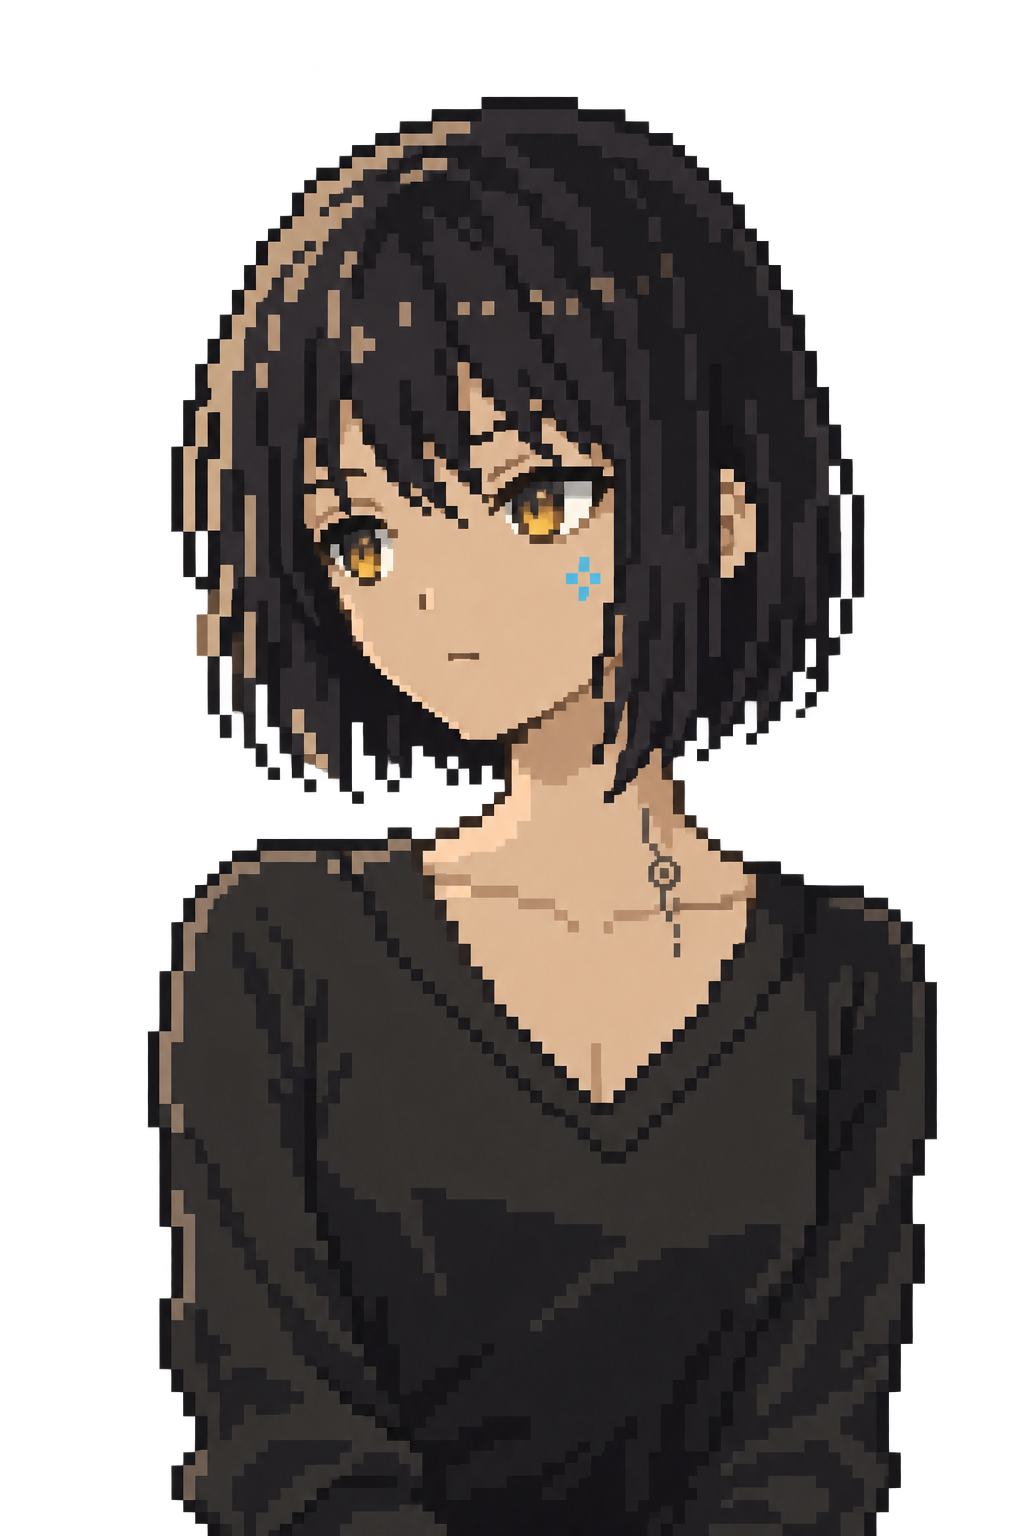
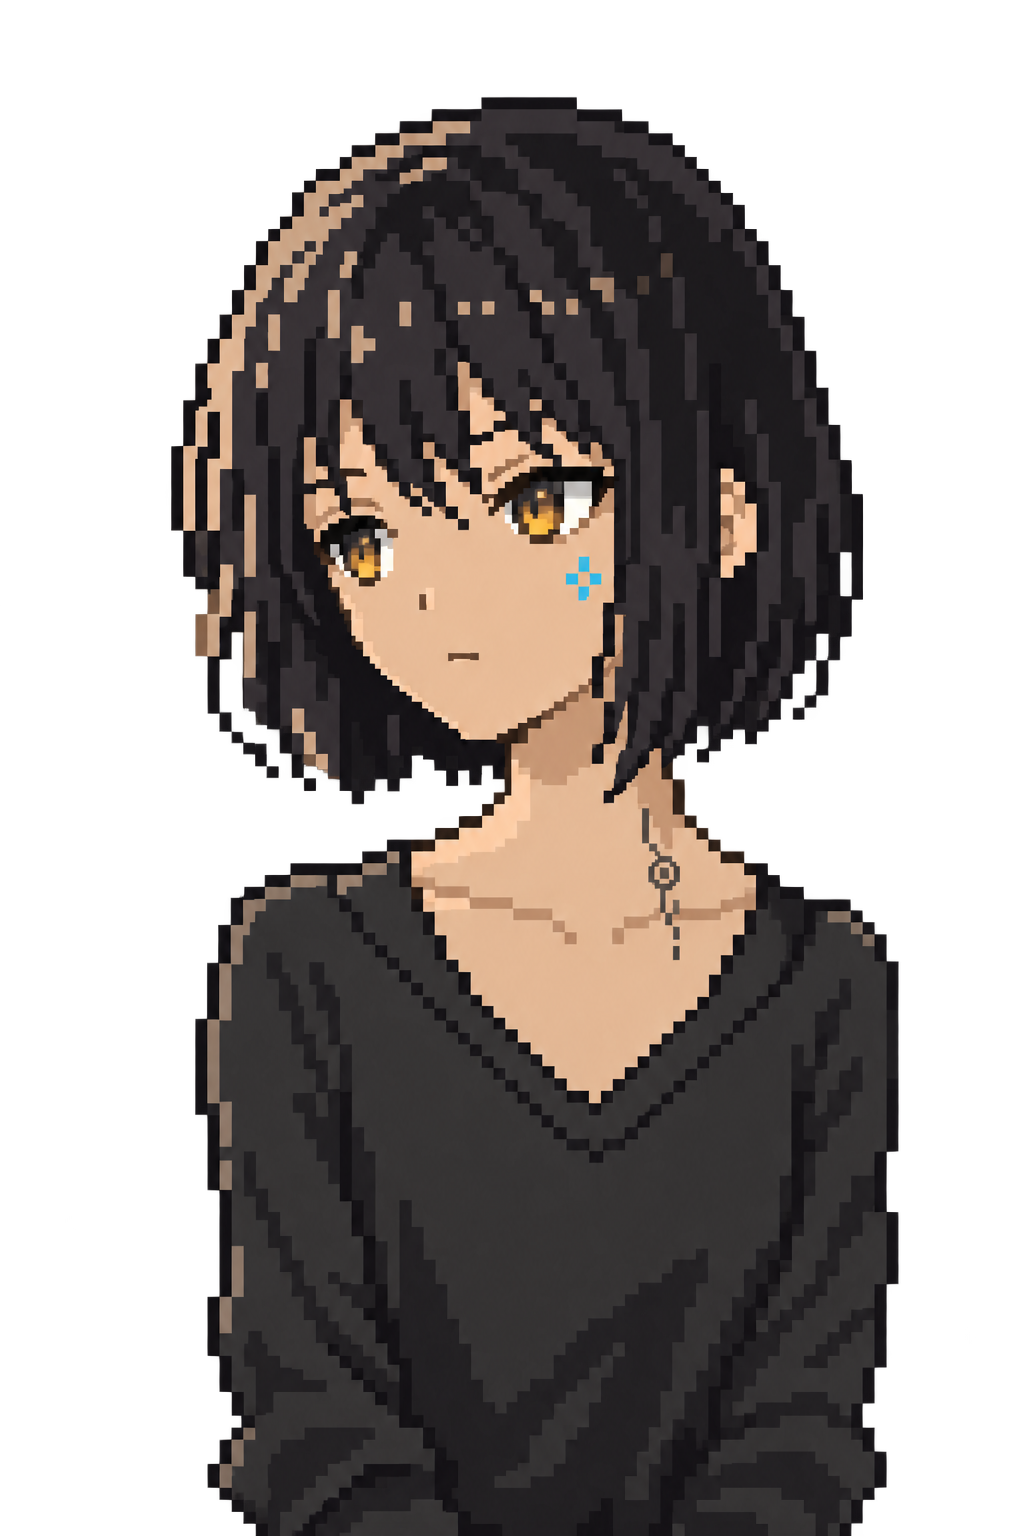
fix: restore gold status accents and slim pixel OC

diff --git a/crates/kanzei-app/ui/style.css b/crates/kanzei-app/ui/style.css
@@ -1,4 +1,4 @@
-/* kanzei — 暖炭灰、纸白与少量香槟金，搭配简洁的像素 OC。
+/* kanzei — 暖炭灰、纸白与清晰的琥珀金状态，搭配简洁的像素 OC。
    参考 Sand 的暖灰层级，背景去掉蓝调，强调色只承载重点。 */
 * { margin: 0; padding: 0; box-sizing: border-box; }
 /* R-189:默认主题 = 暗色。:root 保留 dark 语义 token,
@@ -7,16 +7,16 @@
   --bg: #181817; --panel: #21211f; --panel2: #2b2b28; --input: #282825;
   --border: #3d3c36; --border-soft: #30302b;
   --fg: #deded6; --fg-strong: #f1f0e9; --dim: #aaa99f;
-  --accent: #c6b08b; --accent-hover: #d5c3a3; --accent-soft: #302d26;
+  --accent: #dfb14f; --accent-hover: #edc678; --accent-soft: #342b1b;
   /* 填充与文字分别配色，保证亮色主题中的琥珀文字仍有足够对比。 */
-  --accent-text: #d2bc95;
-  --memory-flow: #bda985; --memory-flow-hot: #e0cfb0; --memory-flow-dim: #777266;
-  --ok: #a1b69b; --err: #d4968b; --warn: #c6b08b; --info: #a0bdb5;
+  --accent-text: #e4bb67;
+  --memory-flow: #caa24e; --memory-flow-hot: #edc678; --memory-flow-dim: #806d42;
+  --ok: #a1b69b; --err: #d4968b; --warn: #dfb14f; --info: #a0bdb5;
   --oc-circuit: #9bc9c4;
-  --alert: #c6b08b;
+  --alert: #dfb14f;
   --danger: var(--err); --muted: var(--dim);
-  --statusbar: #1b1b19; --statusbar-run: #302d26;
-  --statusbar-fg: #aaa99f; --statusbar-run-fg: #ded0b8;
+  --statusbar: #1b1b19; --statusbar-run: #30281b;
+  --statusbar-fg: #aaa99f; --statusbar-run-fg: #edc678;
   /* 工作区与主背景同色；输入区、侧栏和消息通过表面明度区分。 */
   --chat-bg: #181817;
   --user-bubble: #292925; --user-bubble-border: #3d3c36;
@@ -28,15 +28,14 @@
      逐个 input 去覆盖既漏且难维护(D-154)。 */
   color-scheme: dark;
   /* R-189:暗色专属徽章/状态胶囊底色(b 类字面量 token 化,亮色组成对给值)。 */
-  --badge-err: #362a28; --badge-warn: #302d26; --badge-info: #293330;
-  --badge-alert: #302d26; --badge-ok: #293127;
+  --badge-err: #362a28; --badge-warn: #342b1b; --badge-info: #293330;
+  --badge-alert: #342b1b; --badge-ok: #293127;
   --badge-err-soft: #2a8a4233; --badge-warn-soft: #b34a4a33; --badge-soft: #8883;
-  /* 被 .workspace-status.running 引用却从未定义:唯一需要一眼看见的「运行中」
-     反倒是四个状态胶囊里唯一没底色的那个。与 --ok 同色系,alpha 与同组一致。 */
+  /* 成功状态的浅底色；运行状态统一使用金色的 accent token。 */
   --badge-ok-soft: #8fb87a33;
   /* R-189:框架面未 token 化的字面量提升(b 类)——活动栏/滚动条/代码块等。 */
   --activitybar: #181817; --sidebar-bg: #1d1d1b; --scrollbar: #414039; --scrollbar-hover: #5b594f;
-  --activity-fg: #96968a; --activity-active: #d2bc95;
+  --activity-fg: #96968a; --activity-active: #e4bb67;
 
   --code-bg: #151513; --code-output-bg: #1b1b18; --danger-btn: #50332f;
   --code-inline: #30302b;
@@ -48,7 +47,7 @@
   /* R-189:语法着色/线路主题色/状态点色/杂项(d 类字面量 token 化)。 */
   --syntax-comment: #6a9955; --syntax-string: #ce9178; --syntax-number: #b5cea8; --syntax-keyword: #569cd6;
   --line-1: #7ba7c4; --line-2: #d3a14a; --line-3: #8fb87a; --line-4: #aa83bd;
-  --dot-idle: #a1b69b; --dot-run: #c6b08b;
+  --dot-idle: #a1b69b; --dot-run: #dfb14f;
   --diff-line-number: #666; --arch-unindexed: #b45309; --log-gold: #e8b04b;
   /* D-380:主题块之外**不允许**出现字面量颜色。以下是原先逃逸在交互态里的那批
      ——它们最难被静态发现,也最容易在亮色下出错(拒绝键 hover 变深灰块、线路条
@@ -79,26 +78,26 @@
   --bg: #f6f5f1; --panel: #fcfbf8; --panel2: #eeede7; --input: #f2f1ec;
   --border: #d5d2c7; --border-soft: #e4e1d9;
   --fg: #393831; --fg-strong: #25241f; --dim: #66645b;
-  --accent: #c1aa83; --accent-hover: #ceb994; --accent-soft: #eee6d8;
+  --accent: #d9aa4e; --accent-hover: #e4bc70; --accent-soft: #f1e5c9;
   /* 文字琥珀比按钮填充更深。 */
-  --accent-text: #705c3a;
-  --memory-flow: #8e7956; --memory-flow-hot: #715b35; --memory-flow-dim: #b7ab94;
-  --ok: #4e6d43; --err: #a84036; --warn: #80602d; --info: #426d64;
+  --accent-text: #815d16;
+  --memory-flow: #a17a28; --memory-flow-hot: #815d16; --memory-flow-dim: #bfac80;
+  --ok: #4e6d43; --err: #a84036; --warn: #855c10; --info: #426d64;
   --oc-circuit: #659f9b;
   --alert: #c2410c;
   --danger: var(--err); --muted: var(--dim);
-  --statusbar: #f0efe9; --statusbar-run: #eee6d8;
-  --statusbar-fg: #66645b; --statusbar-run-fg: #57472c;
+  --statusbar: #f0efe9; --statusbar-run: #f1e5c9;
+  --statusbar-fg: #66645b; --statusbar-run-fg: #765010;
   color-scheme: light;
   --chat-bg: #f6f5f1;
   --user-bubble: #eeede7; --user-bubble-border: #d5d2c7;
   --on-danger: #8c1d18;
-  --badge-err: #f4e6e0; --badge-warn: #f0e8d8; --badge-info: #e5ece6;
-  --badge-alert: #f0e8d8; --badge-ok: #e8ecdf;
+  --badge-err: #f4e6e0; --badge-warn: #f1e5c9; --badge-info: #e5ece6;
+  --badge-alert: #f1e5c9; --badge-ok: #e8ecdf;
   --badge-err-soft: #b3261e26; --badge-warn-soft: #9a670026; --badge-soft: #8888881f;
   --badge-ok-soft: #2f7d3226;
   --activitybar: #eeede7; --sidebar-bg: #f0efe9; --scrollbar: #cfccc1; --scrollbar-hover: #afab9e;
-  --activity-fg: #777468; --activity-active: #705c3a;
+  --activity-fg: #777468; --activity-active: #815d16;
 
   --code-bg: #eeede6; --code-output-bg: #e8e6dd; --danger-btn: #f0dcd4;
   --code-inline: #e7e5dc;
@@ -107,7 +106,7 @@
   --on-accent: #242018;
   --syntax-comment: #6a737d; --syntax-string: #032f62; --syntax-number: #005cc5; --syntax-keyword: #d73a49;
   --line-1: #1f6b96; --line-2: #9a6700; --line-3: #1a7f37; --line-4: #8250df;
-  --dot-idle: #4e6d43; --dot-run: #80602d;
+  --dot-idle: #4e6d43; --dot-run: #855c10;
   --diff-line-number: #8b949e; --arch-unindexed: #9a6700; --log-gold: #953800;
   /* 亮色的阴影不能照抄 53% 纯黑:同样的值在浅底上是一块脏印子。 */
   --shadow: #0000001f; --shadow-strong: #00000029;
@@ -263,7 +262,7 @@ body {
   border-left: 2px solid transparent;
 }
 .project-item:hover { background: var(--panel2); }
-.project-item.active { background: var(--panel2); border-left-color: var(--accent); }
+.project-item.active { background: var(--accent-soft); border-left-color: var(--accent); }
 .project-item:focus-visible { outline: 2px solid var(--accent); outline-offset: -2px; }
 .project-item .name { font-weight: 500; color: var(--fg-strong); white-space: nowrap; overflow: hidden; text-overflow: ellipsis; min-width: 0; flex: 1; }
 .project-item .path { display: none; }
@@ -426,7 +425,7 @@ button.mini { padding: 2px 10px; font-size: var(--fs-11-5); }
 .workspace-card:focus-visible { outline: 2px solid var(--accent); outline-offset: 2px; }
 .workspace-card-head { display: flex; justify-content: space-between; gap: 12px; align-items: center; }
 .workspace-status { padding: 2px 7px; border-radius: 10px; font-size: var(--fs-11); }
-.workspace-status.running { color: var(--ok); background: var(--badge-ok-soft); }
+.workspace-status.running { color: var(--accent-text); background: var(--accent-soft); }
 .workspace-status.failed { color: var(--danger); background: var(--badge-warn-soft); }
 .workspace-status.idle { color: var(--muted); background: var(--badge-soft); }
 .workspace-path, .workspace-summary, .workspace-activity, .workspace-meta { margin-top: 6px; font-size: var(--fs-12); overflow: hidden; text-overflow: ellipsis; white-space: nowrap; }
@@ -1331,7 +1330,7 @@ button.bg-section-toggle:focus-visible { outline: 2px solid var(--accent); outli
 .parallel-line:hover .parallel-line-close, .parallel-line-close:focus-visible { opacity: 1; }
 .parallel-task-row { width: 100%; display: flex; flex-direction: column; align-items: flex-start; gap: 5px; padding: 10px 40px 10px 10px; border: 1px solid transparent; border-radius: 7px; background: transparent; color: var(--fg); text-align: left; cursor: pointer; font: inherit; }
 .parallel-task-row:hover { background: var(--panel2); }
-.parallel-task-row.active { border-color: var(--border); background: var(--panel2); }
+.parallel-task-row.active { border-color: color-mix(in srgb, var(--accent) 60%, var(--border)); background: var(--accent-soft); }
 .parallel-task-row.running { border-left: 2px solid var(--ok); }
 .parallel-task-row.auto-pending { border-left: 2px solid var(--warn); }
 .parallel-task-head { overflow: hidden; text-overflow: ellipsis; white-space: nowrap; max-width: 100%; font-size: var(--fs-12); font-weight: 500; }
@@ -1620,7 +1619,7 @@ button.mini { font-size: var(--fs-11); padding: 2px 8px; }
   color: var(--dim); border: 1px solid var(--border); border-radius: 10px;
   padding: 0 6px; font-size: var(--fs-10); white-space: nowrap;
 }
-.work-unit-badge.active, .work-unit-badge.verifying { color: var(--accent); border-color: var(--accent); }
+.work-unit-badge.active, .work-unit-badge.verifying { color: var(--accent-text); border-color: var(--accent); }
 .work-unit-badge.blocked { color: var(--alert); border-color: var(--alert); }
 .work-unit-list { display: grid; gap: 6px; margin: 6px 0; }
 .work-unit-card {
@@ -2423,12 +2422,12 @@ button.mini { font-size: var(--fs-11); padding: 2px 8px; }
 .research-filter-row { display: grid; grid-template-columns: repeat(4, minmax(0, 1fr)); gap: 5px; }
 .research-filter-meta { display: flex; justify-content: space-between; gap: 8px; color: var(--muted); font-size: var(--fs-10-5); }
 .research-card-backrefs { margin: 4px 0 7px; color: var(--muted); font-size: var(--fs-11); }
-.research-badge.evidence-depth { color: var(--accent); border-color: color-mix(in srgb, var(--accent) 45%, var(--border)); }
+.research-badge.evidence-depth { color: var(--accent-text); border-color: color-mix(in srgb, var(--accent) 45%, var(--border)); }
 .research-topic-group { display: flex; flex-direction: column; gap: 8px; }
 .research-topic-title { margin: 0; color: var(--fg-strong); font-size: var(--fs-13); font-weight: 600; }
 
 .research-tab { background: transparent; color: var(--dim); border: 1px solid transparent; border-radius: var(--radius); padding: 4px 12px; cursor: pointer; font: inherit; }
-.research-tab.active { background: var(--panel2); color: var(--fg-strong); border-color: var(--border-soft); }
+.research-tab.active { background: var(--accent-soft); color: var(--accent-text); border-color: var(--accent); }
 .research-tab em { font-style: normal; color: var(--muted); }
 .research-cards { flex: 1; overflow-y: auto; padding: 12px; display: flex; flex-direction: column; gap: 10px; }
 .research-card { border: 1px solid var(--border-soft); border-radius: var(--radius); background: var(--panel); padding: 10px 12px; }
@@ -2521,8 +2520,8 @@ button.mini { font-size: var(--fs-11); padding: 2px 8px; }
 /* 开发 / 研究空间：导航、内容与任务控制分别组织。 */
 .workspace-switcher { display: flex; gap: 4px; padding: 14px 14px 6px; flex-shrink: 0; }
 .workspace-switcher button { flex: 1; border: 0; border-radius: 7px; background: transparent; color: var(--muted); padding: 8px 12px; font: inherit; font-size: var(--fs-12); cursor: pointer; transition: background .15s, color .15s; }
-.workspace-switcher button.active { color: var(--fg-strong); background: var(--panel2); }
-.workspace-switcher button:hover { background: var(--hover-wash); color: var(--fg-strong); }
+.workspace-switcher button.active { color: var(--accent-text); background: var(--accent-soft); }
+.workspace-switcher button:not(.active):hover { background: var(--hover-wash); color: var(--fg-strong); }
 .rail-section-separator, .rail-global-separator { width: 24px; min-height: 1px; background: var(--border-soft); margin: 8px 0; }
 .rail-global-separator { margin-top: auto; }
 .research-navigation { padding: 4px 12px 12px; border-bottom: 1px solid var(--border-soft); }

diff --git a/crates/kanzei-app/ui/assets/oc-pixel-v3.prompt.md b/crates/kanzei-app/ui/assets/oc-pixel-v3.prompt.md
@@ -12,3 +12,14 @@ Identity essentials: young adult female character, short straight black bob with
 Style is CRITICAL: traditional low-resolution pixel art built on a 64-by-96 logical pixel grid, enlarged exactly 16x to a 1024-by-1536 transparent PNG. Large crisp square pixels, hard edges, flat color clusters, at most 12-16 colors, 3 shades per material. No antialiasing, no painterly gradients, no photographic shading, no thin smooth lines, no detailed hair strands. Adult proportions with a slightly simplified face, not baby chibi. The final character should still look clear and charming at 96 pixels tall. Use a small silhouette occupying about 46 of the 64 logical pixels in width, leaving clear transparent margins.
 Palette: warm near-black charcoal #171716, stone-gray fabric #35342f, warm ivory skin #d5bda5, restrained amber eyes #c7ae83, ONLY 2-3 small muted cyan pixels at the cheek. A few soft champagne highlights #d0bea0. Sophisticated, restrained, low saturation; no blue-gray wash, no yellow wash, no neon glow, no bloom.
 Background must have TRUE alpha transparency. Nothing behind or around the sprite: no scene, checkerboard pixels, halo, gradient, circle, frame, shadow, text or watermark. No extra accessories. Export a single sprite, not a sheet, not multiple poses.
+
+## Slim silhouette revision — 2026-09-21
+
+Built-in imagegen edit of the previous `oc-pixel-v3.png`; generated output copied
+unchanged. The face and circuit coordinates stay aligned with the UI overlays.
+
+Edit this existing pixel-art OC sprite with one localized anatomy/clothing correction. The user likes this exact sprite and wants to keep its face and pixel style. Keep the same 1024 x 1536 canvas and exact head position, face, amber eyes, short black bob, pose, neutral expression, skin colors, charcoal clothing palette, and pixel scale. Do not redesign the character.
+Change ONLY the body beneath the collarbones: this adult female OC is notably slim and lean, with a small, nearly flat chest and narrow, lightly built torso. Remove the pronounced rounded chest volume, cleavage line, and large curved chest shading. Her dark charcoal shirt should fall simply and naturally over a flat slender torso, with a relaxed shallow V neckline and quiet straight fabric folds. The result should read as a thin, understated young adult woman, not curvy or voluptuous. Slightly narrower shoulders and arms are okay, but preserve the composition and waist-up framing.
+Preserve the tiny cyan cheek circuit mark at about x=584 y=580 and the neck circuit at about x=664 y=872 so the app's animation overlays still align. Keep hair/face absolutely unchanged as closely as possible.
+Maintain deliberate large square pixel-art clusters and clean stepped edges. No painterly restyling, no realism, no extra accessories or props.
+Output a single 1024 x 1536 PNG with TRUE alpha transparency surrounding the sprite; no visible background, checkerboard, halo, gradient, shadow, scene, text or watermark. Preserve the transparent cutout behavior of the attached image.

diff --git a/crates/kanzei-app/ui/assets/README.md b/crates/kanzei-app/ui/assets/README.md
@@ -4,17 +4,19 @@
 the built-in imagegen tool on 2026-09-21, using the project owner's original
 `kanzeiOC/4858512eb268378517c84d82747d1418.png` and
 `kanzeiOC/dd88ac584626ec713ad96765b48171e8.png` as identity references.
+The built-in imagegen tool then refined the same sprite to a leaner body and a
+small, flat chest, preserving the face, hair, pose and circuit coordinates.
 The generated 1024 x 1536 PNG and its alpha channel are preserved without pixel edits.
-The submitted prompt is in `oc-pixel-v3.prompt.md`.
+Both the original and revision prompts are in `oc-pixel-v3.prompt.md`.
 
-The UI uses warm charcoal, paper white and restrained champagne accents, informed
+The UI uses warm charcoal, paper white and clear amber-gold status accents, informed
 by the [Radix neutral-palette guidance](https://www.radix-ui.com/colors/docs/palette-composition/composing-a-palette).
 These are custom theme tokens; text contrast is checked separately.
 
 `22-oc-companion.js` aligns simple SVG circuit paths to the cheek and neck marks.
 The portrait and its marks share a two-pixel breathing motion. Thinking lights
 the cheek; tool execution sends square light points inward; reply streaming
-sends them outward; completion briefly settles to champagne.
+sends them outward; completion briefly settles to gold.
 
 Real task events drive these effects. Current-session identity and runtime
 terminal state take precedence over animation history. The decorative layer
